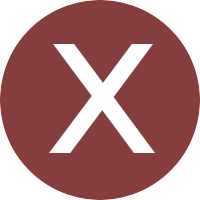
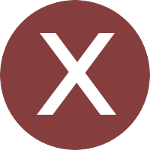
Made all video thumbnails resize and crop to 200w X 150h, including the NoThumb.png placeholder.

diff --git a/list.js b/list.js
@@ -282,11 +282,10 @@ exports.composeResults= function(start, relDir, dirContents, cb){
                     fs.stat(item.thumbAbsolutePath, function(err, stats){ 
                         if(err){
                             if(err.code == 'ENOENT'){ // Only continue with thumbnail generation if the thumbnail doesn't already exist.
-                                // If the file is a webm video
-                                if(/\.(webm|mp4)$/.test(item.absolutePath)){
-                                    ffmpeg(item.absolutePath)
-                                        // If there's an error generating the thumbnail, use a generic image.
-                                        .on('error', function(err, stdout, stderr){
+                                if(/\.(webm|mp4)$/.test(item.absolutePath)){ // If the file is a webm video
+                                    ffmpeg(item.absolutePath).ffprobe(0, function(err, data){
+                                        if(err){
+                                            console.error("Cannot generate thumbnail for %s.", item.absolutePath);
                                             iterator--;
                                             item.thumb = '/images/NoThumb.png';
                                             fileResults.push(item); // Push the item to the final results array.
@@ -301,26 +300,74 @@ exports.composeResults= function(start, relDir, dirContents, cb){
                                                 return cb(null, results);
                                             }
                                             return;
-                                        })
-                                        .on('end', function(){
-                                            iterator--;
-                                            fileResults.push(item);
-                                            item = null;
-                                            if(! iterator){
-                                                results = results.concat(dirResults, fileResults);
-                                                results.sort(function(a, b){
-                                                    return a.number - b.number;
-                                                });
-                                                if(end){
-                                                    results.push('end');
+                                        }
+                                        var cropWidth;
+                                        var cropHeight;
+                                        var scaleWidth;
+                                        var scaleHeight;
+                                        var cropX;
+                                        var cropY;
+                                        width = data.streams[0].width;
+                                        height = data.streams[0].height;
+                                        aspectFactor = height / width;
+                                        if(aspectFactor <= 1){ // Landscape
+                                            scaleFactor = 150 / height;
+                                            cropHeight = 150;
+                                            cropWidth = Math.floor(scaleFactor * width) > 200 ? 200 : Math.floor(scaleFactor * width);
+                                            cropX = Math.floor(((scaleFactor * width) - cropWidth) / 2);
+                                            cropY = 0;
+                                            scaleWidth = -1;
+                                            scaleHeight = 150
+                                        }
+                                        else if(aspectFactor > 1){ // Portrait
+                                            scaleFactor = 200 / width;
+                                            cropHeight = Math.floor(scaleFactor * height) > 150 ? 150 : Math.floor(scaleFactor * height);
+                                            cropWidth = 200;
+                                            cropX = 0;
+                                            cropY = Math.floor(((scaleFactor * height) - cropHeight) / 2);
+                                            scaleWidth = 200;
+                                            scaleHeight = -1;
+                                        }
+
+                                        ffmpeg(item.absolutePath)
+                                            // If there's an error generating the thumbnail, use a generic image.
+                                            .on('error', function(err, stdout, stderr){
+                                                console.error("Cannot generate thumbnail for %s.", item.absolutePath);
+                                                iterator--;
+                                                item.thumb = '/images/NoThumb.png';
+                                                fileResults.push(item); // Push the item to the final results array.
+                                                if(! iterator){ // If there aren't any more images to process, finish up and return the callback.
+                                                    results = results.concat(dirResults, fileResults);
+                                                    results.sort(function(a, b){
+                                                        return a.number - b.number;
+                                                    });
+                                                    if(end){
+                                                        results.push('end');
+                                                    }
+                                                    return cb(null, results);
                                                 }
-                                                return cb(null, results);
-                                            }
-                                        })
-                                        .seekInput('00:00:05.0') // Get the thumbnail frame from 5 seconds into the video.
-                                        .frames(1)
-                                        .size('200x?') // Resize the frame to 200px wide, with proportional height.
-                                        .save(item.thumbAbsolutePath);
+                                                return;
+                                            })
+                                            .on('end', function(){
+                                                iterator--;
+                                                fileResults.push(item);
+                                                item = null;
+                                                if(! iterator){
+                                                    results = results.concat(dirResults, fileResults);
+                                                    results.sort(function(a, b){
+                                                        return a.number - b.number;
+                                                    });
+                                                    if(end){
+                                                        results.push('end');
+                                                    }
+                                                    return cb(null, results);
+                                                }
+                                            })
+                                            .seekInput('00:00:05.0') // Get the thumbnail frame from 5 seconds into the video.
+                                            .frames(1)
+                                            .complexFilter(['scale=w=' + scaleWidth + ':h=' + scaleHeight + '[rescaled]', {filter: 'crop', options: {w: cropWidth, h: cropHeight, x: cropX, y: cropY}, inputs: 'rescaled'}])
+                                            .save(item.thumbAbsolutePath);
+                                    });
                                 }
                                 else{ // If the item is not a video, it's an image, so use im to create the thumbnail
                                     im(item.absolutePath)
@@ -346,9 +393,11 @@ exports.composeResults= function(start, relDir, dirContents, cb){
                                         if(features.width > features.height){ // If the image is in landscape, make the thumbnail 200px wide.
                                             im(item.absolutePath + '[0]') // '[0]' is used for gifs; it grabs the first frame.
                                             .resize(200, null) 
+                                            .crop(200, 150, 0, 0)
                                             .write(item.thumbAbsolutePath, function (err) {
                                                 iterator--;
                                                 if (err){
+                                                    console.error("Cannot generate thumbnail for %s.", item.absolutePath);
                                                     item.thumb = '/images/NoThumb.png';
                                                     fileResults.push(item);
                                                     item = null;
@@ -380,10 +429,11 @@ exports.composeResults= function(start, relDir, dirContents, cb){
                                         }
                                         else{ // If the image is in portrait, make the thumbnail 200px high.
                                             im(item.absolutePath + '[0]') 
-                                            .resize(null, 200)
+                                            .resize(null, 150)
                                             .write(item.thumbAbsolutePath, function (err) {
                                                 iterator--;
                                                 if (err){
+                                                    console.error("Cannot generate thumbnail for %s.", item.absolutePath);
                                                     item.thumb = '/images/NoThumb.png';
                                                     fileResults.push(item);
                                                     item = null;

diff --git a/routes/index.js b/routes/index.js
@@ -78,9 +78,9 @@ router.get(/\/.*/, function(req, res, next){
                         }
                         dirlist.composeResults(start, pathname, list, function(err, shortList){
                             res.render('index', {title: pathname, content: shortList, start: start, pathname: pathname, breadcrumbs: getBreadcrumbs(pathname), auth: settings.useAuth, total: list.length});
-                            //dirlist.getList(start, absPath, pathname, req.cookies[cookieName], function(err, list){
-                                //dirlist.composeResults(Number(start) + 12, pathname, list, function(){return});
-                            //}); // After the response is sent, call getList again for the next set of 12 images to pre-cache the thumbnails, if needed.
+                            dirlist.getList(start, absPath, pathname, req.cookies[cookieName], function(err, list){
+                                dirlist.composeResults(Number(start) + 12, pathname, list, function(){return});
+                            }); // After the response is sent, call getList again for the next set of 12 images to pre-cache the thumbnails, if needed.
                             dirlist.cleanup(pathname, absPath); // Clean up the directory in case contents have been moved/deleted.
                         });
                     });
